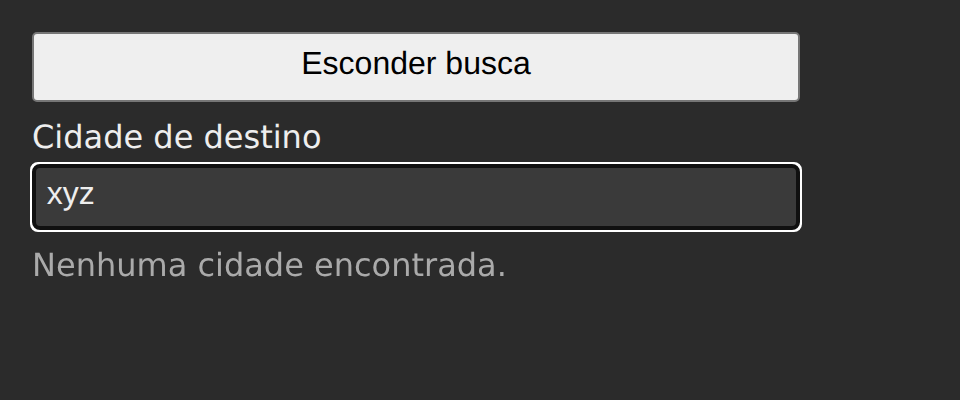
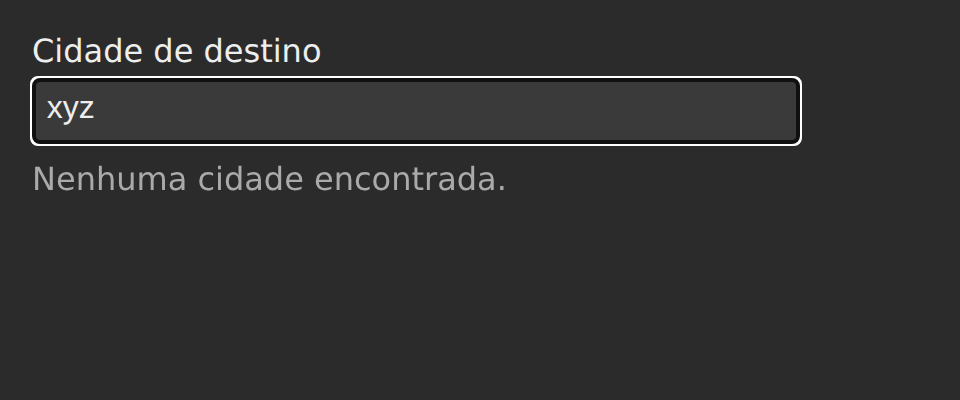
Hospeda a Busca no Web Component com signals pela página comum
A Busca no Web Component com signals ainda traz a página com o botão
"Esconder busca"/"Mostrar busca", um segundo elemento que só existe para
o teste de conformidade tirar a busca da página, e por isso falha nas
verificações de "Limpeza ao sair da tela", que desde "Confere a limpeza
ao sair da tela pela rota da página, sem botão" saem e voltam pela rota
do hash de implementacoes/pagina.ts (ADR 0043).

A página sai, com o efeito que criava a busca e a limpeza que a tirava,
e fica o par montar e desmontar no idioma da tecnologia, o mesmo do Web
Component: o createElement e o append da busca no contêiner, e o
remove(), que dispara o disconnectedCallback. O index.html passa a
trazer o contêiner #raiz com a classe do layout, que a página montava. A
limpeza ao sair da tela, o dispose do createRoot no
disconnectedCallback, não muda: é o que se compara.

Conferido com npm run conformidade --
busca-com-sugestoes/web-component-signals (17 verificações ok) e com as
capturas regeradas: as 6 cenas saem sem o botão, iguais às do Web
Component, e diferentes das outras até o commit de cada uma.

Changed region(s): [[0.0312, 0.06, 0.8438, 0.6], [0.0312, 0.63, 0.5312, 0.69]]

diff --git a/implementacoes/busca-com-sugestoes/web-component-signals/src/main.ts b/implementacoes/busca-com-sugestoes/web-component-signals/src/main.ts
@@ -14,6 +14,7 @@ import {
   rotulo,
   type Cidade,
 } from "../../dominio";
+import { hospedar } from "../../../pagina";
 import "../../estilo.css";
 
 const modelo = /* HTML */ `
@@ -146,42 +147,10 @@ class BuscaDeDestino extends HTMLElement {
   }
 }
 
-// A página: o botão que tira a busca da página e a põe de volta.
-class BuscaComSugestoes extends HTMLElement {
-  private descartar?: () => void;
-
-  connectedCallback() {
-    this.innerHTML = /* HTML */ `
-      <main class="busca">
-        <button type="button" class="alternar">Esconder busca</button>
-      </main>
-    `;
-    const principal = this.querySelector("main")!;
-    const alternar = this.querySelector<HTMLButtonElement>(".alternar")!;
-
-    const [visivel, setVisivel] = createSignal(true);
-    alternar.addEventListener("click", () => setVisivel(!visivel()));
-
-    this.descartar = createRoot((descartar) => {
-      createEffect(() => {
-        alternar.textContent = visivel() ? "Esconder busca" : "Mostrar busca";
-      });
-      // A busca entra quando o sinal fica verdadeiro, e a limpeza a tira
-      // quando ele fica falso.
-      createEffect(() => {
-        if (!visivel()) return;
-        const busca = document.createElement("busca-de-destino");
-        principal.append(busca);
-        onCleanup(() => busca.remove());
-      });
-      return descartar;
-    });
-  }
-
-  disconnectedCallback() {
-    this.descartar?.();
-  }
-}
-
 customElements.define("busca-de-destino", BuscaDeDestino);
-customElements.define("busca-com-sugestoes", BuscaComSugestoes);
+
+hospedar((conteiner) => {
+  const busca = document.createElement("busca-de-destino");
+  conteiner.append(busca);
+  return () => busca.remove();
+});

diff --git a/implementacoes/busca-com-sugestoes/web-component-signals/index.html b/implementacoes/busca-com-sugestoes/web-component-signals/index.html
@@ -6,7 +6,7 @@
     <title>Busca com sugestões com Web Component e signals</title>
   </head>
   <body>
-    <busca-com-sugestoes></busca-com-sugestoes>
+    <main id="raiz" class="busca"></main>
     <script type="module" src="/src/main.ts"></script>
   </body>
 </html>
